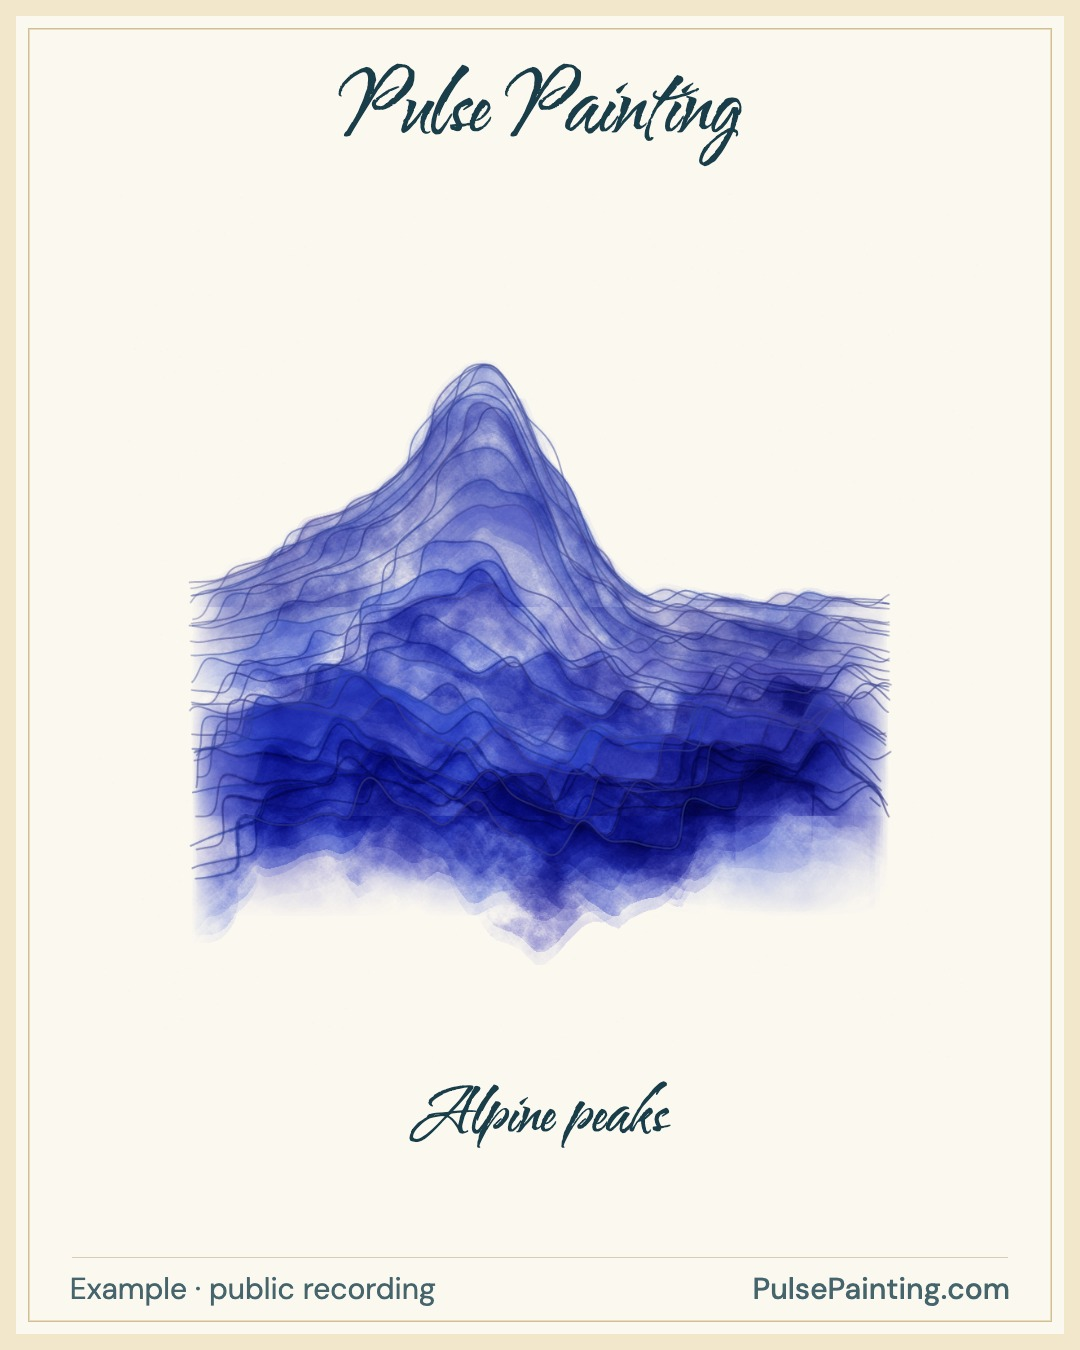
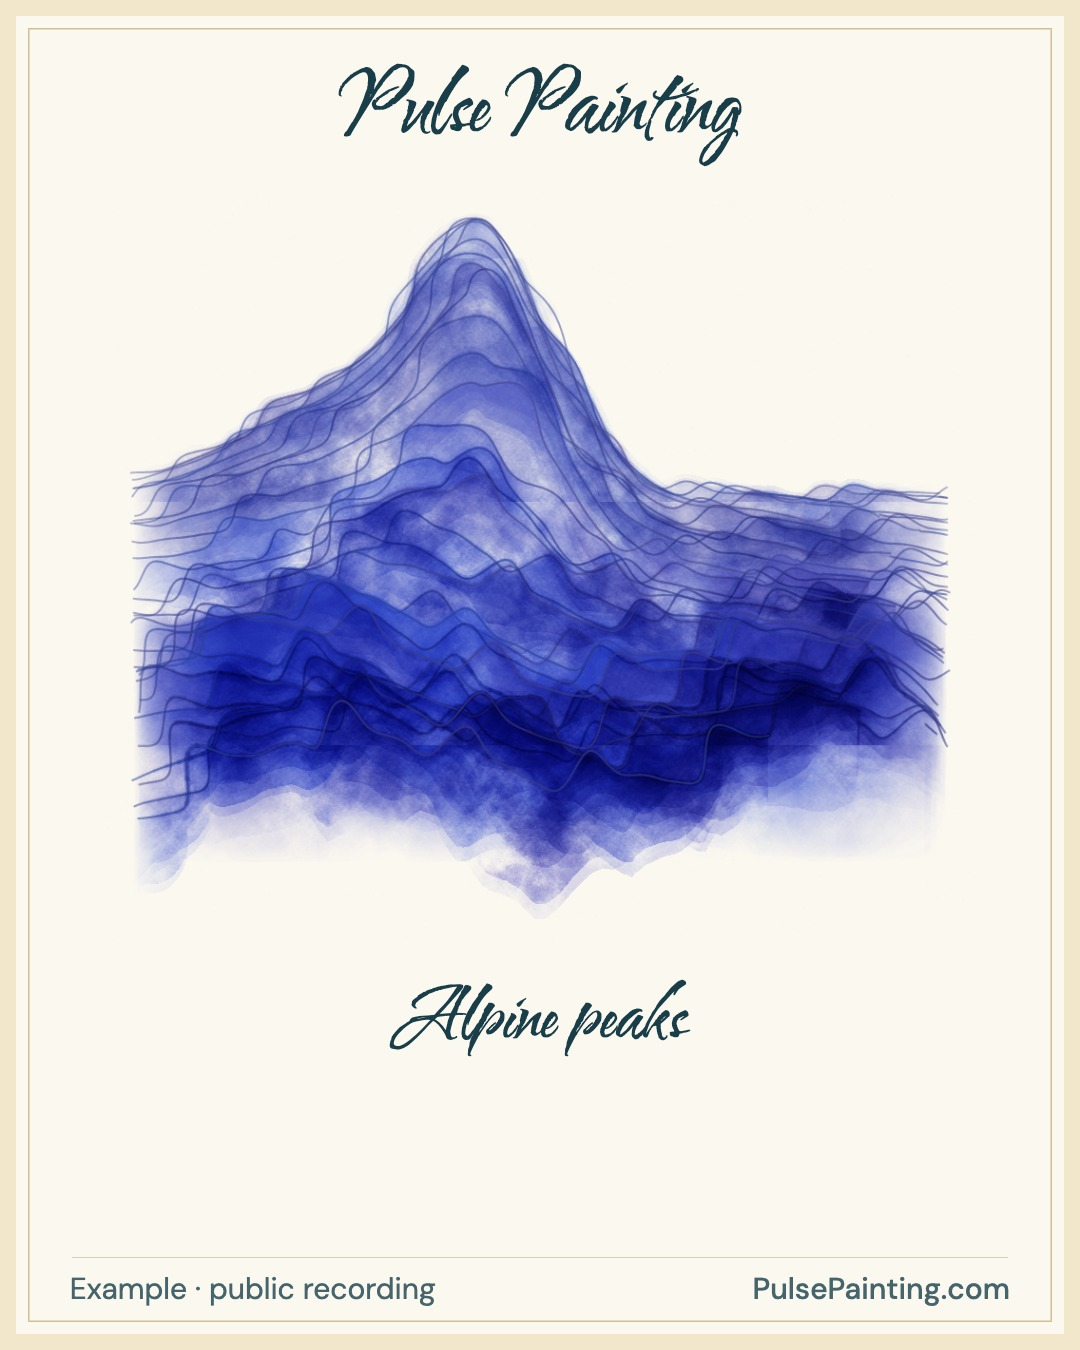
Refresh gallery keepsakes and current renderer provenance

Changed region(s): [[0.1222, 0.1556, 0.8861, 0.7156], [0.3667, 0.7156, 0.6417, 0.84]]

diff --git a/app/portrait.js b/app/portrait.js
@@ -87,7 +87,7 @@
     const y = baseline ?? box.y + (box.height + measured.actualBoundingBoxAscent - measured.actualBoundingBoxDescent) / 2;
     ctx.fillText(text, x, y);
   }
-  function paintCard(canvas, { art, layout = artworkLayout(art), name, footerLeft = '', metrics = {}, includeMetrics = false }) {
+  function paintCard(canvas, { art, scene, layout = artworkLayout(art, scene), name, footerLeft = '', metrics = {}, includeMetrics = false }) {
     const ctx = canvas.getContext('2d');
     // One warm paper stock and a fine ochre frame surround the entire keepsake,
     // including its title and footer, rather than only the landscape square.
